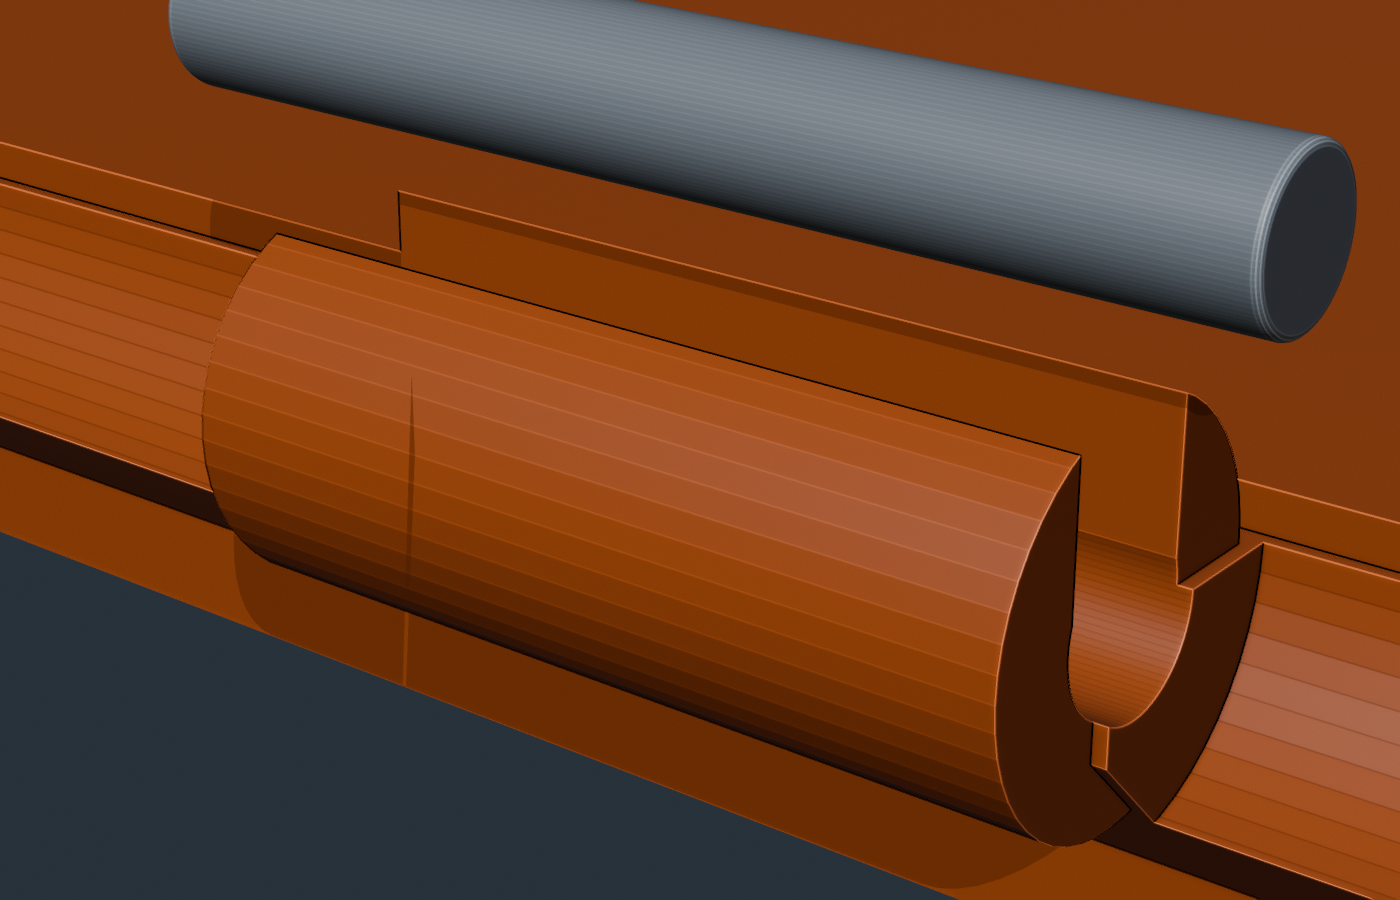
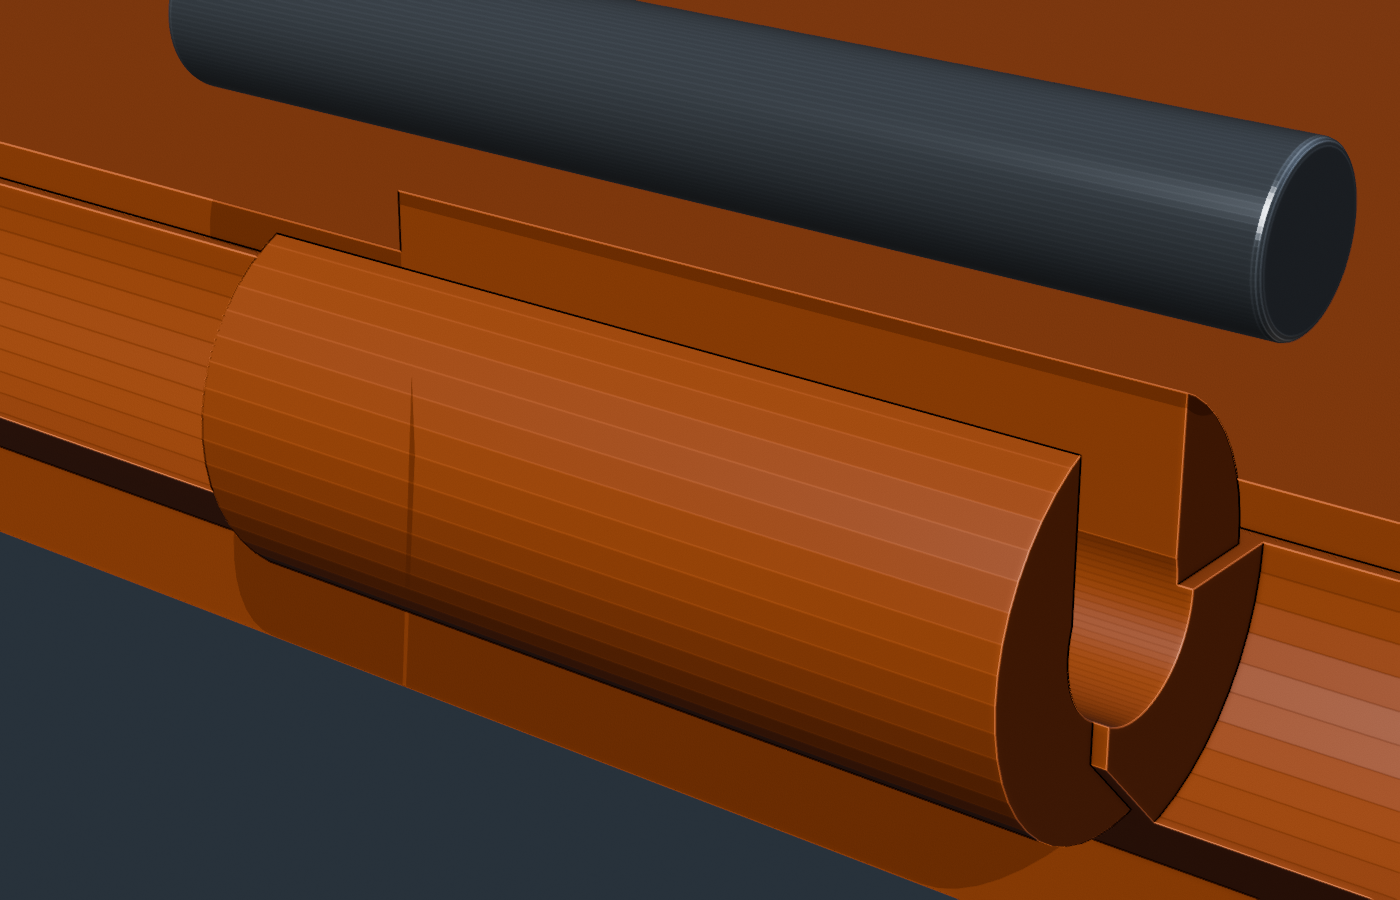
Retain hinge rod with lid end stops

Changed region(s): [[0.1229, 0.0, 0.9521, 0.3733]]

diff --git a/cooler-gopro/mission1_field_case_blender.py b/cooler-gopro/mission1_field_case_blender.py
@@ -367,10 +367,14 @@ HINGE_LID_SLOT_WIDTH = 4.3
 HINGE_PIN_DIAMETER = HINGE_ROD_DIAMETER
 HINGE_BASE_SEGMENTS = ((-76.0, -42.0), (-18.0, 18.0), (42.0, 76.0))
 HINGE_LID_SEGMENTS = ((-41.4, -18.6), (18.6, 41.4))
+HINGE_ROD_END_INSET = 0.5
+HINGE_ROD_X0 = HINGE_BASE_SEGMENTS[0][0] + HINGE_ROD_END_INSET
+HINGE_ROD_X1 = HINGE_BASE_SEGMENTS[-1][1] - HINGE_ROD_END_INSET
+HINGE_LID_END_STOP_BASE_CLEARANCE = 0.3
+HINGE_LID_END_STOP_LENGTH = 3.0
+HINGE_LID_END_STOP_DIAMETER = 6.0
 HINGE_RIM_RELIEF_RADIAL_CLEARANCE = 0.4
 HINGE_RIM_RELIEF_AXIAL_CLEARANCE = 0.2
-HINGE_PIN_X0 = -77.0
-HINGE_PIN_X1 = 77.0
 HINGE_ROD_PATH_AXIAL_CLEARANCE = 0.2
 HINGE_BORE_CUTTER_AXIAL_OVERTRAVEL = 0.6
 HINGE_BORE_VALIDATION_RADIAL_CLEARANCE = 0.005
@@ -3228,6 +3232,29 @@ def validate_configuration() -> None:
         raise ValueError(
             "Lid hinge slot must clear the rod but remain narrower than its receiver"
         )
+    left_base_outer_face = HINGE_BASE_SEGMENTS[0][0]
+    right_base_outer_face = HINGE_BASE_SEGMENTS[-1][1]
+    left_stop_inner_face = (
+        left_base_outer_face - HINGE_LID_END_STOP_BASE_CLEARANCE
+    )
+    right_stop_inner_face = (
+        right_base_outer_face + HINGE_LID_END_STOP_BASE_CLEARANCE
+    )
+    rod_end_clearances = (
+        HINGE_ROD_X0 - left_stop_inner_face,
+        right_stop_inner_face - HINGE_ROD_X1,
+    )
+    if min(rod_end_clearances) < 0.5:
+        raise ValueError("Hinge rod needs at least 0.5 mm clearance from each lid stop")
+    if HINGE_LID_END_STOP_DIAMETER < HINGE_ROD_DIAMETER + 1.0:
+        raise ValueError("Lid hinge end stops need at least 0.5 mm radial rod coverage")
+    end_stop_base_wall_clearance = (
+        HINGE_AXIS_Y
+        - CASE_DEPTH / 2.0
+        - HINGE_LID_END_STOP_DIAMETER / 2.0
+    )
+    if end_stop_base_wall_clearance < 0.5:
+        raise ValueError("Lid hinge end stops sit too close to the base rear wall")
     if HINGE_ROD_PATH_AXIAL_CLEARANCE < HINGE_RIM_RELIEF_AXIAL_CLEARANCE:
         raise ValueError("Lid rim relief must cover the complete hinge rod path")
     hinge_gusset_run = HINGE_BASE_GUSSET_TANGENT_Y - HINGE_BASE_GUSSET_ROOT_Y
@@ -4037,7 +4064,7 @@ def validate_configuration() -> None:
         ("Pelican latch lever", LATCH_LEVER_PRINT_SIZE[:2]),
         ("Pelican latch hook", LATCH_HOOK_PRINT_SIZE[:2]),
         ("pivoting handle bar", (HANDLE_BAR_OUTER_WIDTH, HANDLE_BAR_DROP + 2.0)),
-        ("hinge pin", (HINGE_PIN_X1 - HINGE_PIN_X0 + 2.1, 6.0)),
+        ("hinge pin", (HINGE_ROD_X1 - HINGE_ROD_X0, HINGE_PIN_DIAMETER)),
     ):
         if dimensions[0] > MAX_PRINT_XY or dimensions[1] > MAX_PRINT_XY:
             raise ValueError(f"{part} exceeds {MAX_PRINT_XY:.0f} mm: {dimensions}")
@@ -4110,7 +4137,11 @@ def validate_configuration() -> None:
         f"hinge_rod={HINGE_ROD_DIAMETER:.2f} "
         f"hinge_base_bore={HINGE_BASE_HOLE_DIAMETER:.2f} "
         f"hinge_lid_receiver={HINGE_LID_RECEIVER_DIAMETER:.2f} "
-        f"hinge_lid_slot={HINGE_LID_SLOT_WIDTH:.2f}"
+        f"hinge_lid_slot={HINGE_LID_SLOT_WIDTH:.2f} "
+        f"hinge_end_stop={HINGE_LID_END_STOP_DIAMETER:.2f}x"
+        f"{HINGE_LID_END_STOP_LENGTH:.2f} "
+        f"hinge_rod_length={HINGE_ROD_X1 - HINGE_ROD_X0:.2f} "
+        f"hinge_rod_axial_play={sum(rod_end_clearances):.2f}"
     )
     print(
         "FIELD_CASE_PRINT_ENVELOPES "
@@ -4655,12 +4686,12 @@ def create_lid(
         if index == 1:
             relief_x0 = min(
                 relief_x0,
-                HINGE_PIN_X0 - HINGE_ROD_PATH_AXIAL_CLEARANCE,
+                HINGE_ROD_X0 - HINGE_ROD_PATH_AXIAL_CLEARANCE,
             )
         if index == len(HINGE_BASE_SEGMENTS):
             relief_x1 = max(
                 relief_x1,
-                HINGE_PIN_X1 + HINGE_ROD_PATH_AXIAL_CLEARANCE,
+                HINGE_ROD_X1 + HINGE_ROD_PATH_AXIAL_CLEARANCE,
             )
         relief = add_cylinder_x(
             f"Lid_Rear_Rim_Relief_For_Base_Knuckle_{index}",
@@ -4733,6 +4764,37 @@ def create_lid(
             bevel=0.0,
         )
         difference_from(lid, slot)
+
+    # Two short solid bosses sit just beyond the outer faces of the base's end
+    # knuckles.  The 151 mm rod ends inside those faces, so these lid-mounted
+    # stops pass outside the rod during drop-on installation and then block
+    # axial walk-off in either direction.  Their smaller 6 mm diameter clears
+    # the unchanged base rear wall while remaining deeply bonded into the lid
+    # rim around the hinge axis.
+    for side, base_outer_face in (
+        (-1.0, HINGE_BASE_SEGMENTS[0][0]),
+        (1.0, HINGE_BASE_SEGMENTS[-1][1]),
+    ):
+        stop_inner_face = (
+            base_outer_face + side * HINGE_LID_END_STOP_BASE_CLEARANCE
+        )
+        stop_center_x = (
+            stop_inner_face + side * HINGE_LID_END_STOP_LENGTH / 2.0
+        )
+        end_stop = add_cylinder_x(
+            "Lid_Hinge_Left_Solid_Rod_End_Stop"
+            if side < 0.0
+            else "Lid_Hinge_Right_Solid_Rod_End_Stop",
+            HINGE_LID_END_STOP_DIAMETER / 2.0,
+            HINGE_LID_END_STOP_LENGTH,
+            (
+                dx + stop_center_x,
+                -HINGE_AXIS_Y,
+                LID_WALL_HEIGHT,
+            ),
+            vertices=90,
+        )
+        union_into(lid, end_stop)
 
     # The asymmetric interior boss mates with the TPU pad's open perimeter
     # notch.  A 180-degree-misrotated pad therefore cannot sit flat with its
@@ -5381,16 +5443,9 @@ def create_hinge_pin(material):
     pin = extrude_loop_x(
         "Field_Case_Hinge_Pin",
         loop,
-        HINGE_PIN_X0,
-        HINGE_PIN_X1,
+        HINGE_ROD_X0,
+        HINGE_ROD_X1,
     )
-    head = add_rounded_box(
-        "Hinge_Pin_Stop_Head",
-        (2.2, 6.0, 3.0),
-        (HINGE_PIN_X0 - 1.0, 0.0, 1.5),
-        bevel=0.7,
-    )
-    union_into(pin, head)
     translate_object(pin, (0.0, -180.0, 0.0))
     assign_material(pin, material)
     return pin
@@ -6592,9 +6647,9 @@ def validate_built_base_hinge_gussets(base) -> None:
         "TEMPORARY_Base_Full_Hinge_Rod_Path_Probe",
         HINGE_BASE_HOLE_DIAMETER / 2.0
         - HINGE_BORE_VALIDATION_RADIAL_CLEARANCE,
-        HINGE_PIN_X1 - HINGE_PIN_X0,
+        HINGE_ROD_X1 - HINGE_ROD_X0,
         (
-            (HINGE_PIN_X0 + HINGE_PIN_X1) / 2.0,
+            (HINGE_ROD_X0 + HINGE_ROD_X1) / 2.0,
             HINGE_AXIS_Y,
             BASE_HEIGHT,
         ),
@@ -6715,9 +6770,9 @@ def validate_built_lid_hinge_receivers(lid) -> None:
         "TEMPORARY_Lid_Full_Hinge_Rod_Path_Probe",
         HINGE_LID_RECEIVER_DIAMETER / 2.0
         - HINGE_BORE_VALIDATION_RADIAL_CLEARANCE,
-        HINGE_PIN_X1 - HINGE_PIN_X0,
+        HINGE_ROD_X1 - HINGE_ROD_X0,
         (
-            LID_DISPLAY_OFFSET_X + (HINGE_PIN_X0 + HINGE_PIN_X1) / 2.0,
+            LID_DISPLAY_OFFSET_X + (HINGE_ROD_X0 + HINGE_ROD_X1) / 2.0,
             -HINGE_AXIS_Y,
             LID_WALL_HEIGHT,
         ),
@@ -6750,6 +6805,111 @@ def validate_built_lid_hinge_receivers(lid) -> None:
         f"insertion_overlap_max={insertion_overlap_maximum:.6f} "
         f"overlap_max={bore_overlap_maximum:.6f} "
         f"full_rod_path_overlap={full_path_overlap:.6f}"
+    )
+
+
+def validate_built_lid_hinge_end_stops(lid) -> None:
+    """Prove both solid lid bosses block axial escape of the shortened rod."""
+    minimum_solid_fill = None
+    retention_volumes = []
+    solid_probe_radius = HINGE_LID_END_STOP_DIAMETER / 2.0 - 0.2
+    solid_probe_length = HINGE_LID_END_STOP_LENGTH - 0.4
+    required_solid_fill = (
+        math.pi * solid_probe_radius**2 * solid_probe_length * 0.95
+    )
+
+    end_specs = (
+        (-1.0, HINGE_BASE_SEGMENTS[0][0], HINGE_ROD_X0),
+        (1.0, HINGE_BASE_SEGMENTS[-1][1], HINGE_ROD_X1),
+    )
+    for side, base_outer_face, rod_end_x in end_specs:
+        stop_inner_face = (
+            base_outer_face + side * HINGE_LID_END_STOP_BASE_CLEARANCE
+        )
+        stop_center_x = (
+            stop_inner_face + side * HINGE_LID_END_STOP_LENGTH / 2.0
+        )
+        solid_probe = add_cylinder_x(
+            "TEMPORARY_Lid_Hinge_Solid_End_Stop_Probe",
+            solid_probe_radius,
+            solid_probe_length,
+            (
+                LID_DISPLAY_OFFSET_X + stop_center_x,
+                -HINGE_AXIS_Y,
+                LID_WALL_HEIGHT,
+            ),
+            vertices=90,
+        )
+        try:
+            _faces, solid_fill = exact_transformed_intersection(
+                lid,
+                solid_probe,
+                second_location=solid_probe.location.copy(),
+                second_rotation=solid_probe.rotation_euler.copy(),
+            )
+        finally:
+            bpy.data.objects.remove(solid_probe, do_unlink=True)
+        if solid_fill < required_solid_fill:
+            raise ValueError(
+                "Lid hinge rod end stop is not solid: "
+                f"side={side:+.0f} volume={solid_fill:.6f} "
+                f"required={required_solid_fill:.6f}"
+            )
+        minimum_solid_fill = (
+            solid_fill
+            if minimum_solid_fill is None
+            else min(minimum_solid_fill, solid_fill)
+        )
+
+        rod_end_clearance = abs(stop_inner_face - rod_end_x)
+        retention_probe = add_cylinder_x(
+            "TEMPORARY_Lid_Hinge_Axial_Rod_Retention_Probe",
+            HINGE_ROD_DIAMETER / 2.0,
+            HINGE_ROD_X1 - HINGE_ROD_X0,
+            (0.0, 0.0, 0.0),
+            vertices=90,
+        )
+        try:
+            retention_faces, retention_volume = exact_transformed_intersection(
+                lid,
+                retention_probe,
+                second_location=(
+                    LID_DISPLAY_OFFSET_X + side * (rod_end_clearance + 0.1),
+                    -HINGE_AXIS_Y,
+                    LID_WALL_HEIGHT,
+                ),
+                second_rotation=retention_probe.rotation_euler.copy(),
+            )
+        finally:
+            bpy.data.objects.remove(retention_probe, do_unlink=True)
+        if not retention_faces or retention_volume < 0.5:
+            raise ValueError(
+                "Lid hinge end stop does not retain axial rod travel: "
+                f"side={side:+.0f} volume={retention_volume:.6f}"
+            )
+        retention_volumes.append(retention_volume)
+
+    left_stop_inner_face = (
+        HINGE_BASE_SEGMENTS[0][0] - HINGE_LID_END_STOP_BASE_CLEARANCE
+    )
+    right_stop_inner_face = (
+        HINGE_BASE_SEGMENTS[-1][1] + HINGE_LID_END_STOP_BASE_CLEARANCE
+    )
+    axial_play = (
+        right_stop_inner_face
+        - left_stop_inner_face
+        - (HINGE_ROD_X1 - HINGE_ROD_X0)
+    )
+    print(
+        "FIELD_CASE_LID_HINGE_END_STOPS_VALID "
+        "count=2 "
+        f"diameter={HINGE_LID_END_STOP_DIAMETER:.3f} "
+        f"length={HINGE_LID_END_STOP_LENGTH:.3f} "
+        f"base_axial_clearance={HINGE_LID_END_STOP_BASE_CLEARANCE:.3f} "
+        f"rod_length={HINGE_ROD_X1 - HINGE_ROD_X0:.3f} "
+        f"rod_axial_play={axial_play:.3f} "
+        f"solid_probe_min={minimum_solid_fill:.6f} "
+        f"retention_probe_min={min(retention_volumes):.6f}"
     )
 
 
@@ -8299,6 +8459,7 @@ def build_mission1_field_case():
     validate_installed_lower_tray(parts)
     validate_built_base_hinge_gussets(parts["base"])
     validate_built_lid_hinge_receivers(parts["lid"])
+    validate_built_lid_hinge_end_stops(parts["lid"])
     validate_installed_case_closure(parts)
     validate_built_lid_capture_rails(parts["lid"])
     validate_built_latch_hook_capture(parts["latch_hook"])

diff --git a/cooler-gopro/mission1_field_case_printing.md b/cooler-gopro/mission1_field_case_printing.md
@@ -280,7 +280,16 @@ align them over the bar and lower/slide the lid onto it. The 0.2 mm slot
 clearance lets a nominal 4.1 mm bar pass without forcing a snap fit, while the
 10 mm outside diameter leaves 2.75 mm of radial barrel wall. Generation checks
 the complete insertion path at nine positions per lid knuckle, both finished
-receivers, and the continuous 154 mm hinge path.
+receivers, and the continuous 151 mm hinge path.
+
+Two 6 mm-diameter by 3 mm-long solid bosses are part of the lid just outside
+the outer faces of the base's end knuckles. The straight rod is cut to 151 mm,
+placing each end 0.5 mm inside its base-knuckle face. Each lid stop begins 0.3
+mm beyond that face, leaving 0.8 mm clearance at each rod end and 1.6 mm total
+axial play. The stops therefore pass outside the rod during drop-on assembly,
+then prevent it from walking out in either direction while the lid is attached.
+Their smaller diameter clears the unchanged base rear wall; generated solid
+probes and deliberate axial-overtravel probes verify both stops and retention.
 
 ## Suggested printing
 
@@ -298,9 +307,9 @@ receivers, and the continuous 154 mm hinge path.
   exported orientations. Their broad faces are already on the bed.
 - The case-side latch and handle mounts rise on 45-degree lower webs and do not
   require support. Do not place support inside their teardrop pivot bores.
-- Print the optional 4.1 mm hinge pin on its D-shaped flat, or cut a 4.1 mm
-  metal bar to 154 mm. Verify the actual bar against a small bore test before
-  printing the full base.
+- Print the optional headless 4.1 mm hinge pin on its D-shaped flat, or cut a
+  4.1 mm metal bar to 151 mm. Verify the actual bar against a small bore test
+  before printing the full base.
 
 Test camera, battery, latch, handle, and hinge fits before field use. Pocket,
 pivot, and press-fit dimensions are constants near the top of the Python file
@@ -312,9 +321,10 @@ and can be regenerated without editing an STL.
    doors in the shallow outer pockets if carried; each door remains 7 mm proud.
 2. Seat the TPU gasket in the lid channel. Fit the TPU pad with its asymmetric
    notch over the matching rigid boss.
-3. Feed the 4.1 mm bar (or printed D-profile pin) through the three base
-   knuckles. Align the two lid receiver slots above the installed bar and
-   lower/slide the lid onto it; the bar does not need to pass through the lid.
+3. Feed and center the 151 mm-long, 4.1 mm bar (or headless printed D-profile
+   pin) through the three base knuckles, leaving both ends about 0.5 mm inset.
+   Align the two lid receiver slots above the installed bar and lower/slide the
+   lid onto it; the two solid lid stops then retain the bar axially.
 4. Install each latch with rods cut to `LATCH_FIXED_ROD_LENGTH` and
    `LATCH_LINK_ROD_LENGTH`, then install the separate handle bar with two 12 mm
    lengths of 4 mm rod by default or with regenerated M4 hardware.
